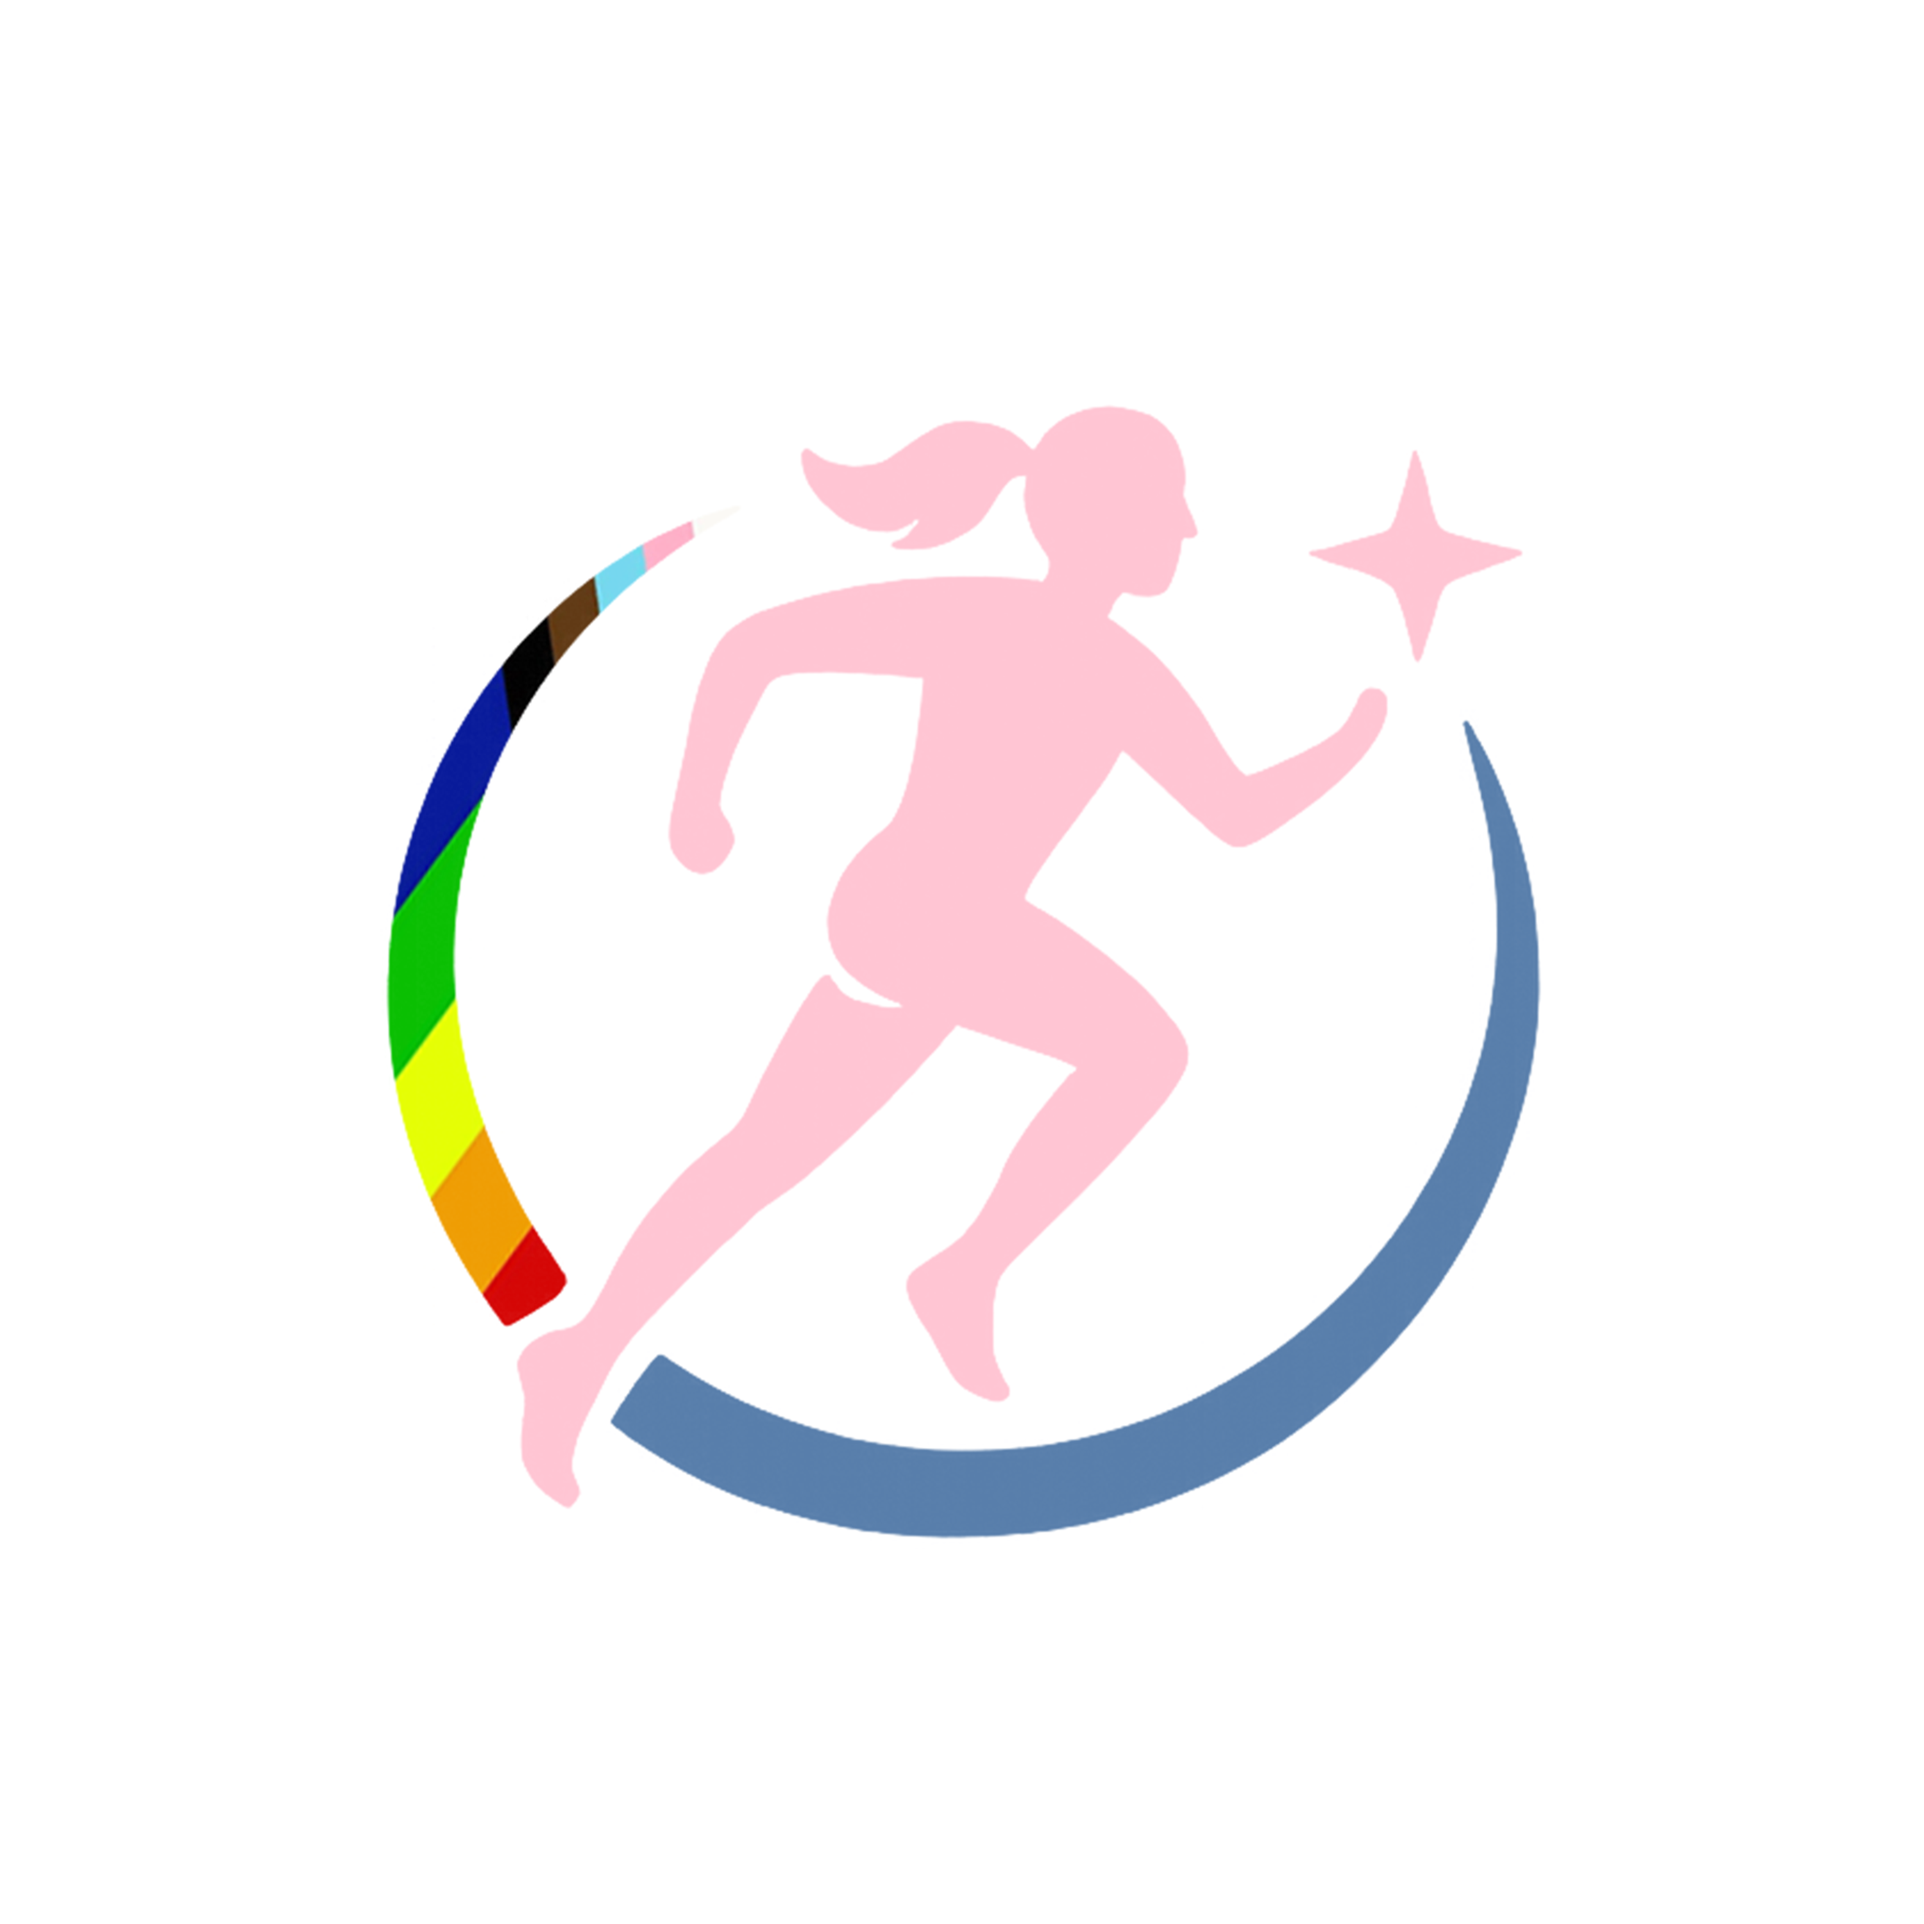
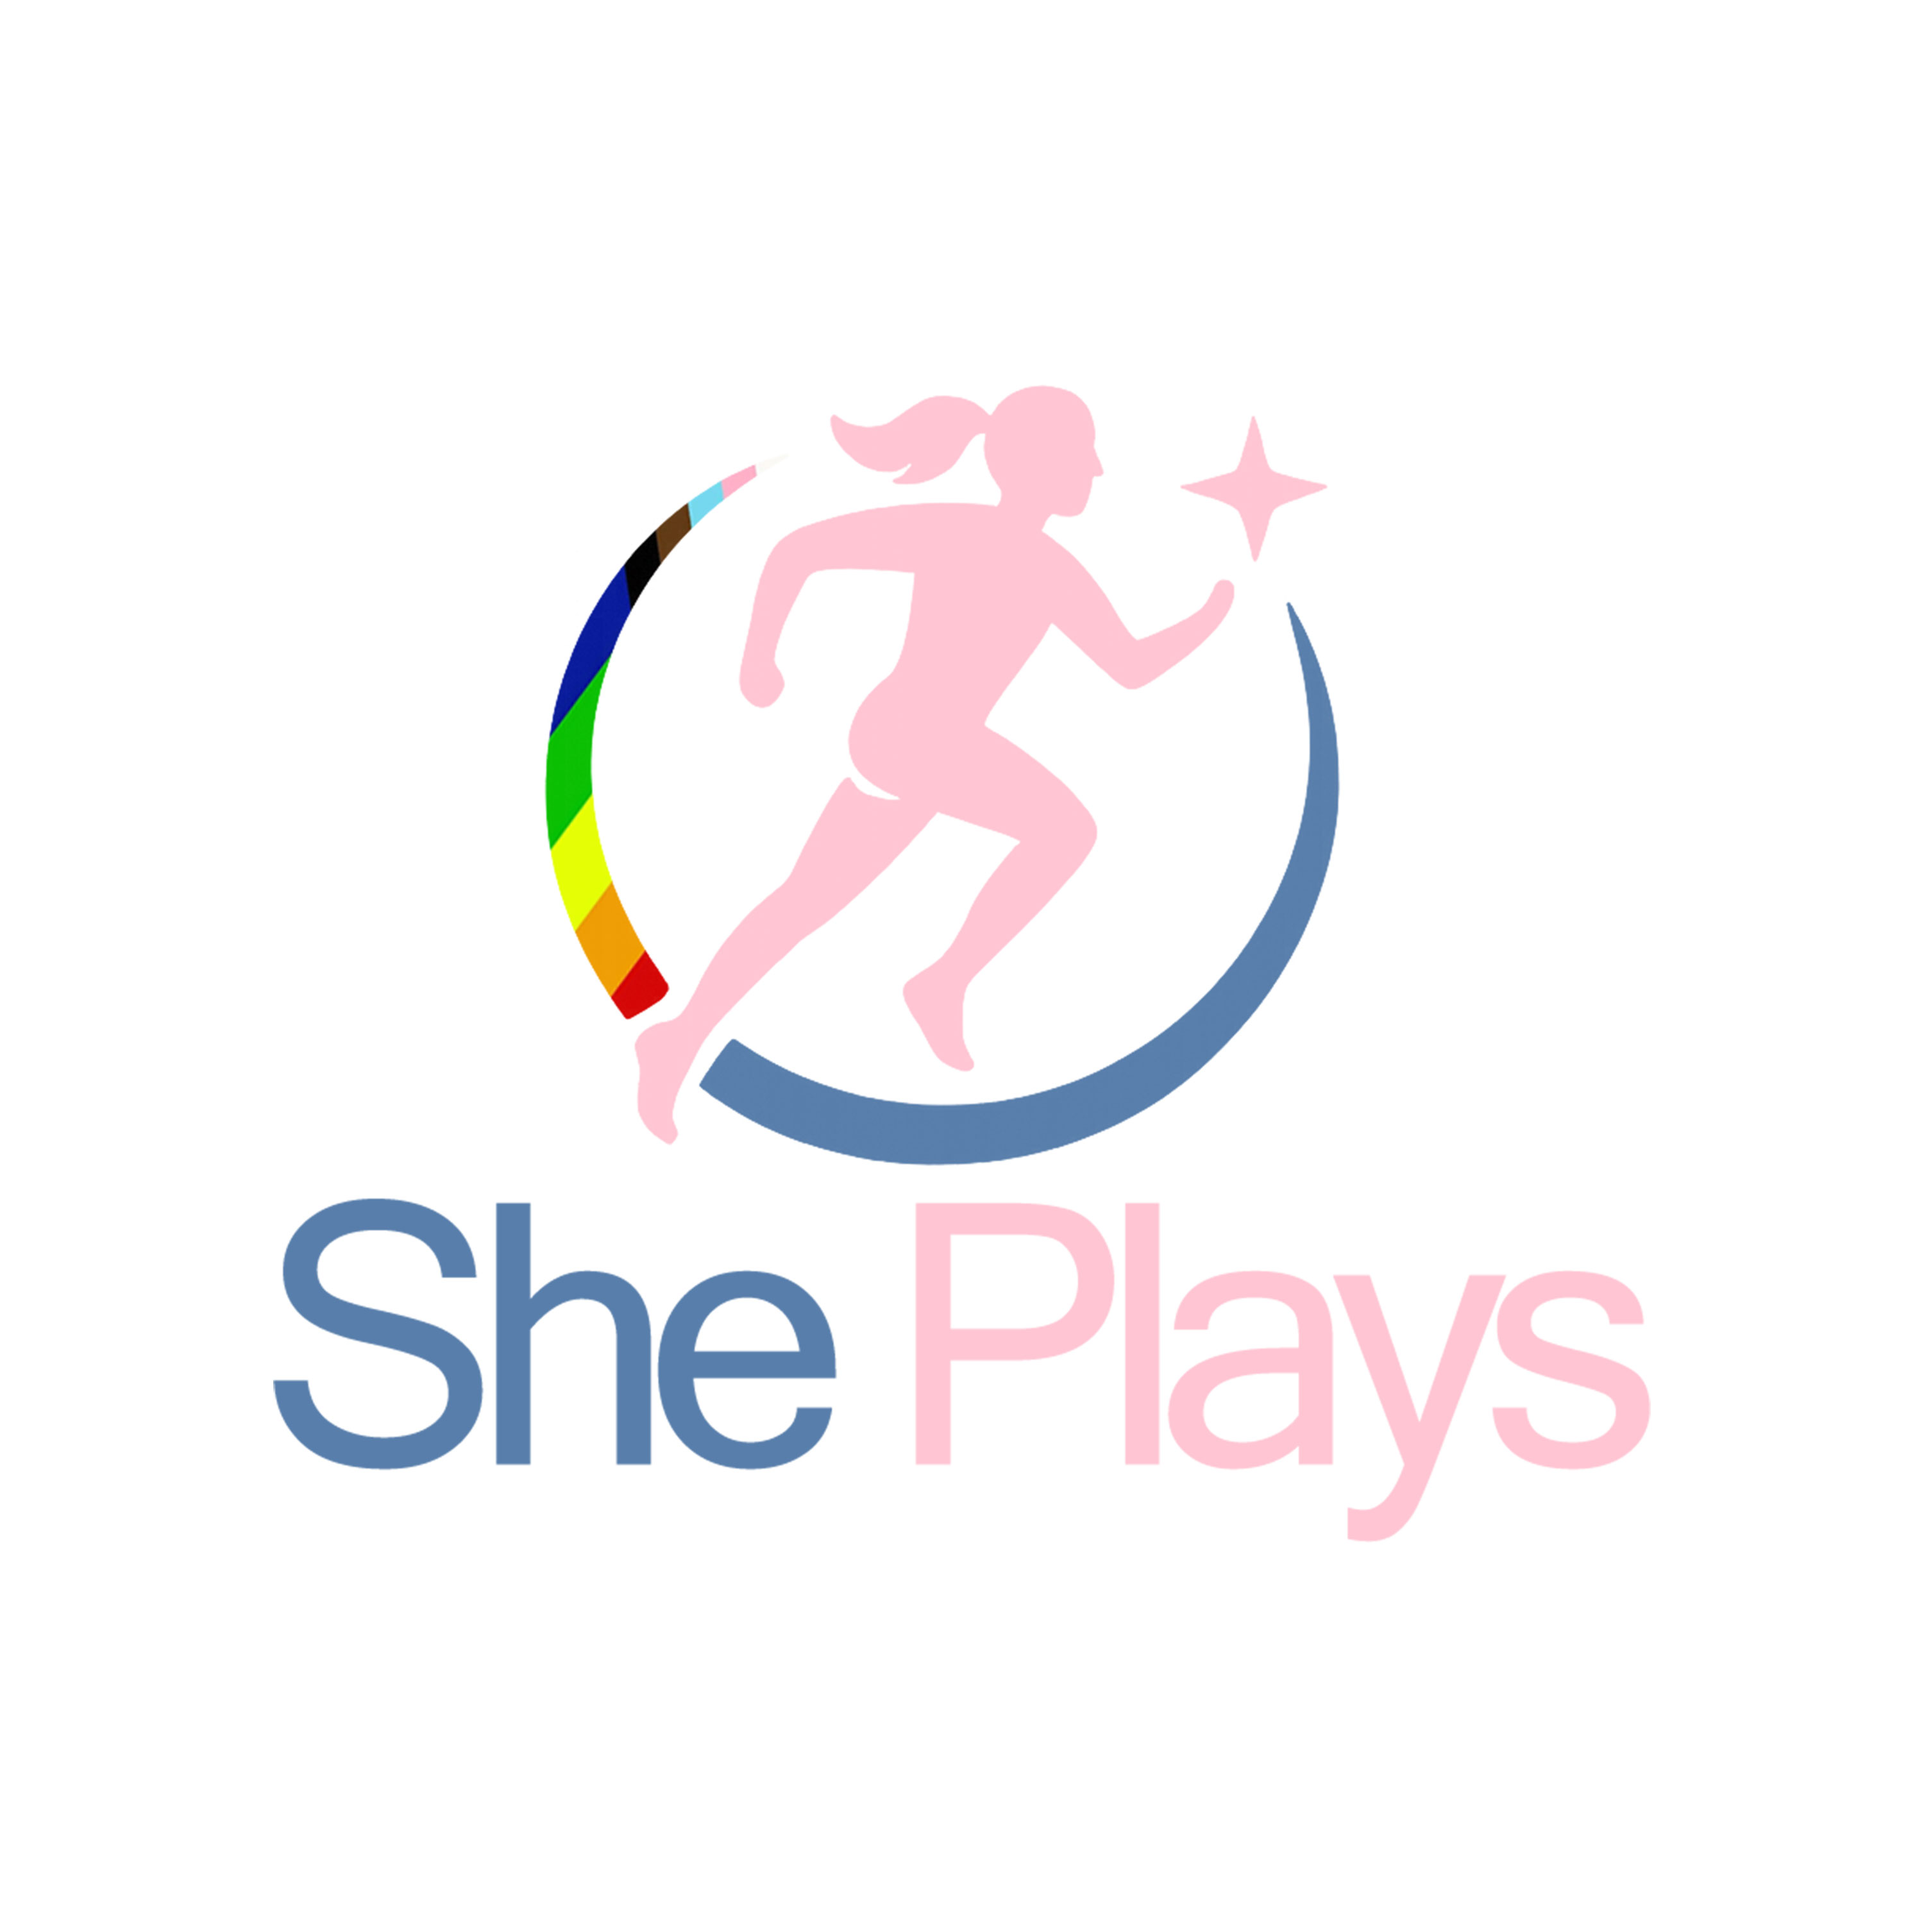
added Div One North and Div One Midlands

Changed region(s): [[0.124, 0.186, 0.868, 0.806]]

diff --git a/index.html b/index.html
@@ -5,12 +5,12 @@
   <title>She Plays</title>
   <meta name="viewport" content="width=device-width, initial-scale=1">
   <link rel="stylesheet" href="css/style.css">
-  <link rel="icon" type="image/png" href="images/favicon.png">
+  <link rel="icon" type="image/png" href="images/she-plays-primary-no-text.png">
 </head>
 <body>
   <header>
+  <p class="call-to-action-bar">She Plays UK is regularly being updated with additional leagues/clubs. If you want information on your local teams and they're not currently on the site, please email admin@sheplays.co.uk</p>
   <img src="images/she-plays-primary.png" alt="She Plays Logo" class="logo">
-  <h1>She Plays</h1>
   <h4 class="subheader">FIND YOUR TEAM. FUEL YOUR PASSION.</h4>
   <p class="subheader">She Plays UK is a dedicated platform helping women and girls across the UK discover, join and support local clubs.<br/><br/>Whether you’re a new player, an experienced player, or just want to watch, there’s a team for you!</p>
   </header>

diff --git a/css/style.css b/css/style.css
@@ -3,7 +3,7 @@ html, body { height: 100%; }
 /*Update to push through deployment*/
 .logo {
   width: 100%;
-  max-width: 180px; /* or whatever max size you want */
+  max-width: 300px; /* or whatever max size you want */
   height: auto;
   display: block;
   margin: 0 auto;
@@ -13,13 +13,14 @@ html, body { height: 100%; }
   text-align: center;
   font-size: 1.2rem;
   color: #555;
+  margin-top: 0;
 }
 
 body {
   font-family: 'League Spartan', sans-serif;
   background: #fff;
   margin: 0;
-  padding: 1rem;
+  padding: 0 1rem 1rem 1rem;
   color: #111827;
 }
 
@@ -399,4 +400,13 @@ main {
 .club-age-group {
  color:#555;
  font-size: smaller;
+}
+
+.call-to-action-bar {
+  background-color: #C9C1FF;
+  text-align: center;
+  height: 25px;
+  line-height: 25px;
+  margin: auto;
+  justify-content: center;
 }
